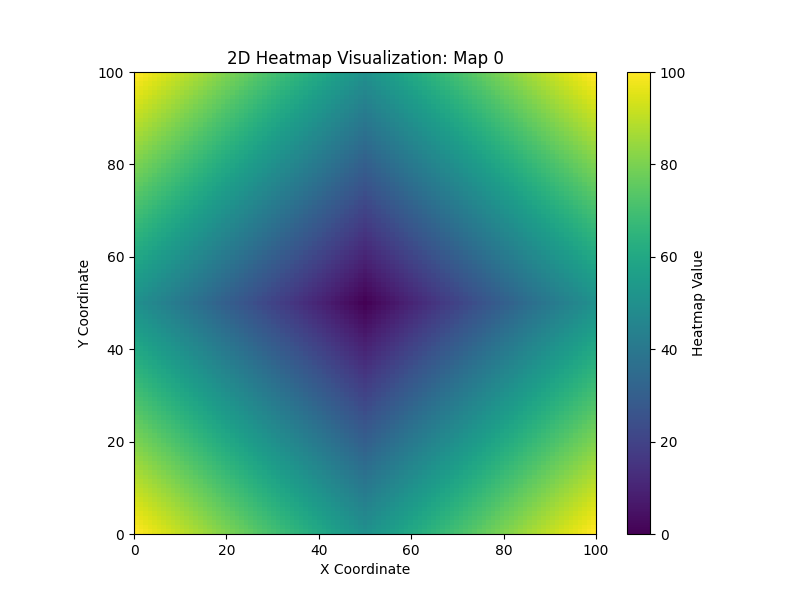
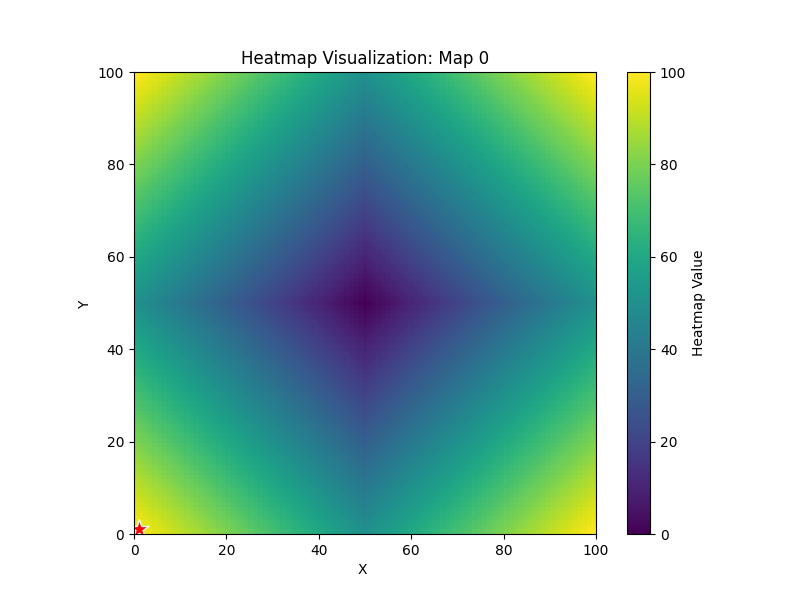
finished env

diff --git a/src/Utilities/SpaceEnv.py b/src/Utilities/SpaceEnv.py
@@ -24,7 +24,7 @@ class MazeEnv(gym.Env):
         self.targetAwards = targetAwards
         self.maps = np.array(args)
         self.spawn = spawn
-        self.cords = spawn
+        self.coords = spawn
         if not (self.lowerLeft.shape == (2,) and 
                 self.upperRight.shape == (2,) and 
                 self.spawn.shape == (2,) and 
@@ -44,24 +44,25 @@ class MazeEnv(gym.Env):
             if np.any(coord < self.lowerLeft) or np.any(coord > self.upperRight):
              raise ValueError(f"Target coordinate {coord} is outside the environment boundaries.")
     
-        self.observation_space = spaces.Dict({"positionX": spaces.Discrete(self.num_rows), "positionY": spaces.Discrete(self.num_cols),
-                                               "distU":spaces.Discrete(self.num_rows), "distD":spaces.Discrete(self.num_rows),
+        self.observation_space = spaces.Dict({"distU":spaces.Discrete(self.num_rows), "distD":spaces.Discrete(self.num_rows),
                                                "distR":spaces.Discrete(self.num_cols), "distL":spaces.Discrete(self.num_rows),
                                                "typeU":spaces.Discrete(3), "typeD":spaces.Discrete(3),
                                                "typeR":spaces.Discrete(3), "typeL":spaces.Discrete(3),
-                                               "extras":spaces.Box(low=-np.inf, high=np.inf,shape=(len(args),), dtype=np.float32)
+                                               "extras":spaces.Box(low=-np.inf, high=np.inf,shape=(len(args),), dtype=np.int_)
                                                })
+        
+        
 
 
-        # 0=up, 1=down, 2=left, 3=right 
-        self.action_space = spaces.Discrete(4)  
+        # 0=up, 1=down, 3=left, 2=right 
+        self.action_space = spaces.Dict({"direction":spaces.Discrete(4), "stepSize":spaces.Box(low = 0, high=100, shape=(1,),dtype = np.byte)} ); 
         
 
 
     
     def reset(self):
-        self.current_pos = self.spawn
-        return self.current_pos
+        self.coords = self.spawn
+        return self.coords
     
     
     def visualize(self, mapInt):
@@ -98,79 +99,44 @@ class MazeEnv(gym.Env):
                     aspect='equal', 
                     cmap='viridis')
     
-        # Add UI elements
         plt.colorbar(im, ax=ax, label='Heatmap Value')
         ax.set_xlabel('X ')
         ax.set_ylabel('Y ')
         ax.set_title(f'Heatmap Visualization: Map {mapInt}')
+        ax.scatter(self.coords[0], self.coords[1], 
+           color='red', marker='*', s=200, label='agent', edgecolors='white')
+        
+        
 
         # Save and cleanup
         plt.savefig(f"heatmap_visual_{mapInt}.png")
         plt.close(fig)
 
     def step(self, action):
-        new_pos = self.current_pos.copy()
-    
-        # 1. Determine which dimension to move in
-        # (e.g., if action is 0 or 1, dim is 0; if 2 or 3, dim is 1...)
-        dim = action // 2
-    
-        # 2. Determine direction: Even actions decrease, Odd actions increase
-        # (or vice-versa, depending on your preference)
-        if action % 2 == 0:
-            new_pos[dim] -= 1
+        if action%2 == 0:
+            change = action.stepSize
         else:
-            new_pos[dim] += 1
-        
-        # 3. Add Boundary Checking (Crucial for N-dims)
-        if np.all(new_pos >= self.lowerLeft) and np.all(new_pos <= self.upperRight):
-            self.current_pos = new_pos
-            # Check if the new position is valid TODO
-            if self._is_valid_position(new_pos):
-                self.current_pos = new_pos
-
-            # Reward function TODO
-            if np.array_equal(self.current_pos, self.goal_pos):
-                reward = 1.0
-                done = True
-            else:
-                reward = 0.0
-                done = False
-
-            return self.current_pos, reward, done, {}
+            change = -action.stepSize
+        oldLoc = self.coords
+        if action/2 ==0 :
+            self.coords = self.coords+[0,change]
+        else:
+            self.coords = self.coords+[change,0]
+        if not self._is_valid_position(self, pos):
+            self.coords = oldLoc
+            return -5
+        if (np.any(self.coords == self.targetCords)):
+            self.reset
+            return 100
+        return -1
+            
+            
 
     def _is_valid_position(self, pos):
         row, col = pos
    
         # If agent goes out of the grid
-        if row < 0 or col < 0 or row >= self.num_rows or col >= self.num_cols:
+        if np.any(pos < self.lowerLeft) or np.any(pos > self.upperRight)
             return False
 
         return True
-#TODO 
-    def render(self):
-        # Clear the screen
-        self.screen.fill((255, 255, 255))  
-
-        # Draw env elements one cell at a time
-        for row in range(self.num_rows):
-            for col in range(self.num_cols):
-                cell_left = col * self.cell_size
-                cell_top = row * self.cell_size
-            
-                try:
-                    print(np.array(self.current_pos)==np.array([row,col]).reshape(-1,1))
-                except Exception as e:
-                    print('Initial state')
-
-                if self.maze[row, col] == '#':  # Obstacle
-                    pygame.draw.rect(self.screen, (0, 0, 0), (cell_left, cell_top, self.cell_size, self.cell_size))
-                elif self.maze[row, col] == 'S':  # Starting position
-                    pygame.draw.rect(self.screen, (0, 255, 0), (cell_left, cell_top, self.cell_size, self.cell_size))
-                elif self.maze[row, col] == 'G':  # Goal position
-                    pygame.draw.rect(self.screen, (255, 0, 0), (cell_left, cell_top, self.cell_size, self.cell_size))
-
-                if np.array_equal(np.array(self.current_pos), np.array([row, col]).reshape(-1,1)):  # Agent position
-                    pygame.draw.rect(self.screen, (0, 0, 255), (cell_left, cell_top, self.cell_size, self.cell_size))
-
-        pygame.display.update()  # Update the display

diff --git a/src/Utilities/HeatMap.py b/src/Utilities/HeatMap.py
@@ -138,5 +138,15 @@ class DirectionWrap():
     def getRange(self)-> tuple[float, float]:
         return self.map.range
     
-    
+class NoiseWrap():
+    def __init__(self,map:HeatMappable,cordArr: NDArray[np.int_]):
+        self.map = map
+        min, max = map.getRange()
+        
+        
+    def map(self, cordArr: NDArray[np.int_]) -> np.int_:
+        return self.map.map(cordArr+self.cordArr)
+        
+    def getRange(self)-> tuple[float, float]:
+        return self.map.range
     
